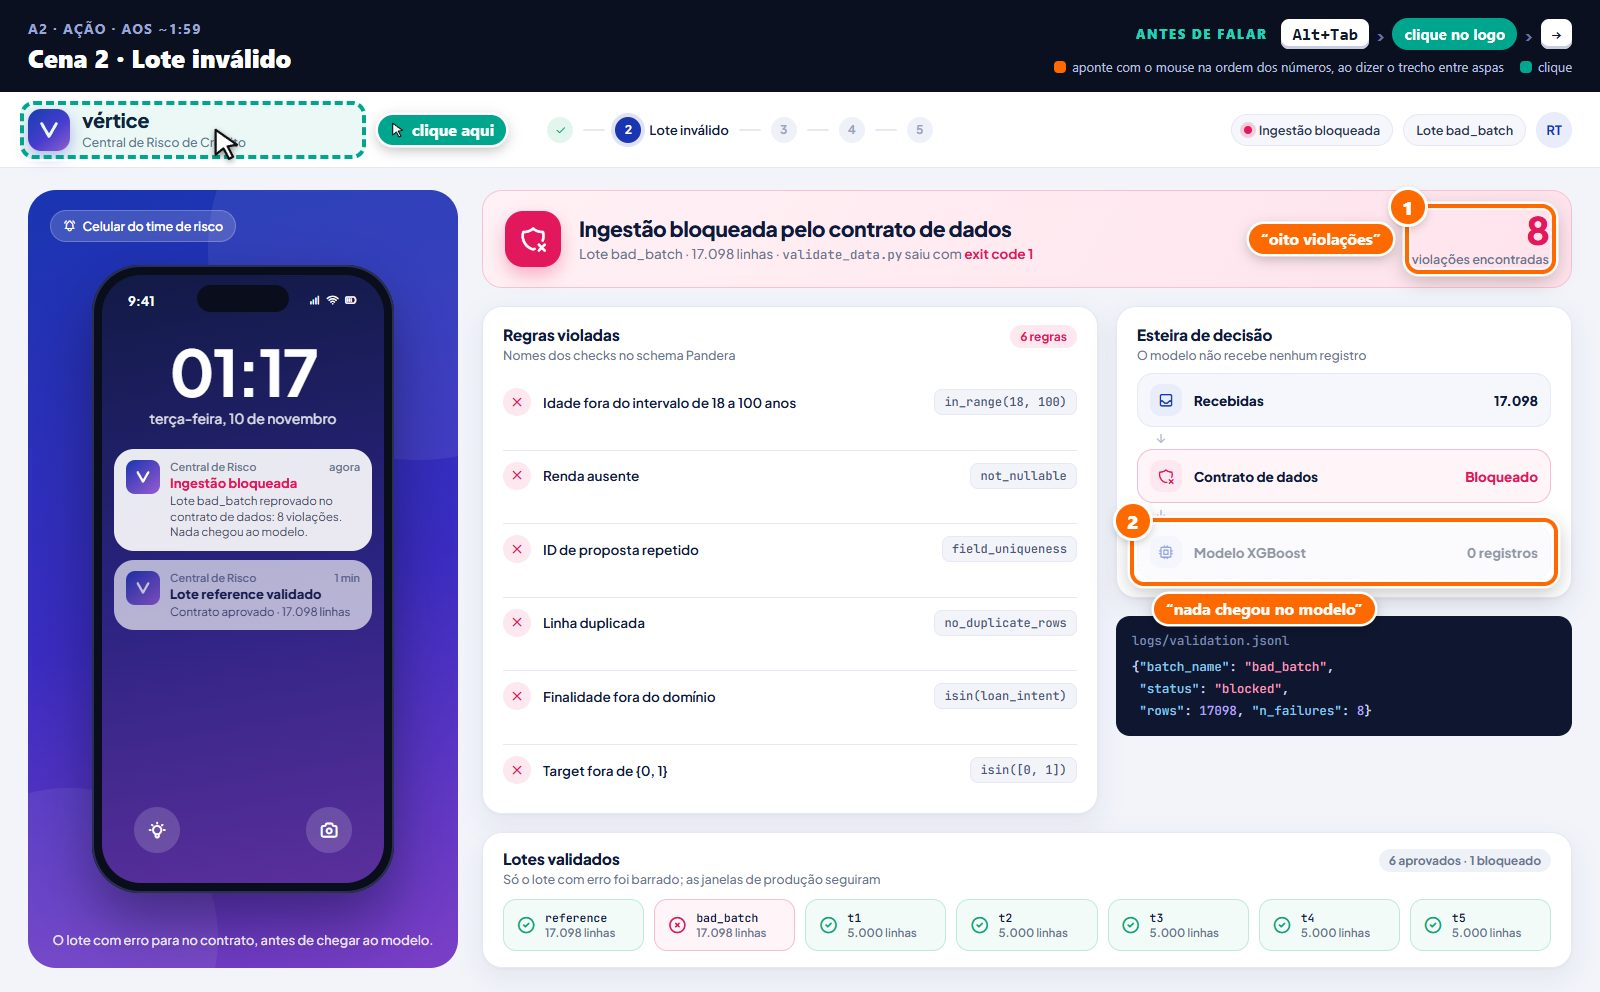
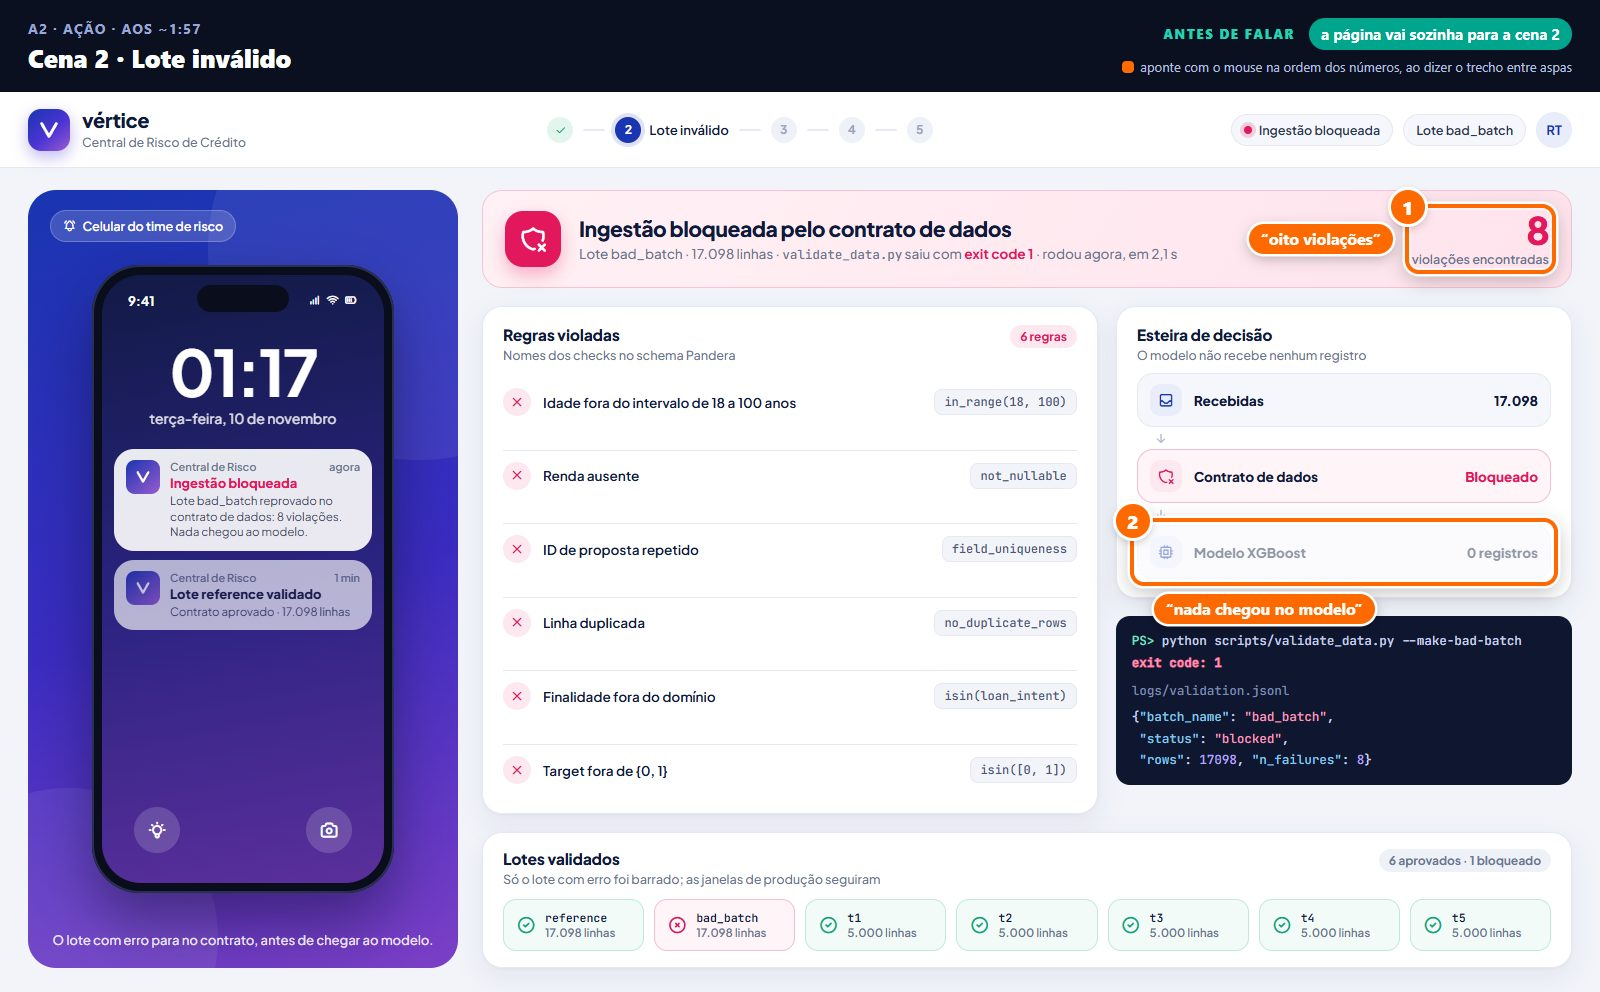
docs(governance): atualiza o a2 do roteiro para rodar o contrato na página

diff --git a/docs/roteiro-video-star.md b/docs/roteiro-video-star.md
@@ -9,7 +9,7 @@ cada escolha, está na seção 5 de [plano-etapa-4.md](plano-etapa-4.md).
 - **Limite do enunciado:** 5 minutos. **Regra do grupo:** menos de **4:59**.
 - **Meta:** ~4:45 no total. A fala tem ~720 palavras: no ritmo dos vídeos anteriores do
   grupo (~165 palavras por minuto) são ~4:22, e o resto cobre as trocas de tela, os dois
-  cliques no celular e a espera do terminal. Os tempos de cada bloco abaixo já seguem esse
+  cliques no celular e a espera do contrato. Os tempos de cada bloco abaixo já seguem esse
   ritmo. Se o ensaio cronometrado passar de 4:50, aplique os cortes do
   [plano B](#plano-b).
 - **Ordem STAR dita em voz alta:** situação, tarefa, ação e resultado, como no vídeo da Fase 2.
@@ -21,8 +21,8 @@ cada escolha, está na seção 5 de [plano-etapa-4.md](plano-etapa-4.md).
 | Tela | O que é | Onde |
 |---|---|---|
 | **Deck** | `Tech_Challenge_4_STAR.pptx`, 11 slides; as notas trazem o tempo de cada bloco | `apresentacao/` (local, fora do Git) |
-| **Página** | página de demonstração "vértice", 5 cenas (celular à esquerda, Central de Risco à direita) | `apresentacao/demo/index.html` (local, fora do Git) |
-| **Terminal** | demonstração ao vivo do contrato bloqueando o lote ruim | raiz do repositório |
+| **Página** | página de demonstração "vértice", 5 cenas (celular à esquerda, Central de Risco à direita); o botão "Testar lote com erro" roda o contrato de verdade dentro da página | `apresentacao/demo/index.html` (local, fora do Git) |
+| **Terminal** | só no plano B do A2, se o botão não funcionar | raiz do repositório |
 | **Evidently** | relatório real de drift da janela t5, aberto em duas abas (tabela e PSI por coluna) | `reports/drift/drift_t5.html` |
 | **README** | seção "Etapa 4: Governança e LGPD" no GitHub | navegador |
 
@@ -61,10 +61,17 @@ predições do `baseline_v1` real. O celular das cenas 1 e 4 também fica ao viv
   (empréstimo acima de 25% da renda). Uns 3 s depois da aprovação chega o aviso "6 meses
   depois: parcelas em atraso". Na simulação, 3 em cada 10 clientes assim deixam de pagar.
 - Finalidade "MEDICAL" nunca aparece no celular, porque a D10 só a mostra em agregados.
+- **Testar lote com erro** (cena 1, no canto da esteira de decisão) roda o mesmo comando do
+  contrato (`scripts/validate_data.py --make-bad-batch`) pelo `serve.py` e mostra, num
+  terminal dentro da página, a saída real, o exit code e o tempo. Uns 2 s depois a página
+  vai sozinha para a cena 2, que diz "rodou agora, em X s". A tecla **L** faz o mesmo. O
+  comando grava em `logs/validation.jsonl` e `reports/validation/`, e o `serve.py` devolve
+  esses dois arquivos ao conteúdo versionado logo depois.
 
 Abrindo o `index.html` direto no navegador, a página funciona do mesmo jeito, mas a tabela
-repete predições do log ("replay dos logs") e o celular usa um cliente fixo. O `serve.py`
-não grava nada em `logs/`. Já o `run_pipeline.py` regrava `logs/` e `reports/`:
+repete predições do log ("replay dos logs"), o celular usa um cliente fixo e o terminal do
+contrato repete a saída do log ("replay do log"). O `serve.py` não deixa nada novo em
+`logs/`. Já o `run_pipeline.py` regrava `logs/` e `reports/`:
 se precisar rodá-lo, faça isso depois de commitar a Etapa 4 e descarte as mudanças geradas
 com `git restore logs/ reports/`.
 
@@ -86,9 +93,9 @@ abas somem, mas os atalhos continuam funcionando. Abra as abas nesta ordem:
   retângulo verde tracejado é onde clicar. Os retângulos laranja numerados são onde apontar,
   na ordem dos números; o balão de cada um traz o trecho da fala em que você aponta.
 - **Mouse:** mova devagar, pare em cima do item enquanto fala e, quando não estiver
-  apontando, deixe o cursor parado num canto vazio. Na página, só os dois botões do celular
-  respondem ao clique ("Atualizar dados" e "Pedir análise"); clicar nos cartões não faz
-  nada. O clique no logo serve só para garantir que a página está com o foco depois do
+  apontando, deixe o cursor parado num canto vazio. Na página, só três botões respondem ao
+  clique: os dois do celular ("Atualizar dados" e "Pedir análise") e o "Testar lote com
+  erro" da cena 1; clicar nos cartões não faz nada. O clique no logo serve só para garantir que a página está com o foco depois do
   `Alt+Tab`.
 - Os prints foram gerados da página e do relatório reais (pasta
   [roteiro-video/](roteiro-video/)). Para gerar de novo depois de mudar a página, com o
@@ -156,41 +163,41 @@ ordem: o cenário, a mudança, o risco.
 | "nenhum erro" | aponte **4**, "Predições com erro" |
 | "só o ID com hash" | aponte **5**, a coluna "Registro" da tabela |
 
-### A2 · Ação: contrato de dados · 1:38–2:05 · terminal → página, cena 2
+### A2 · Ação: contrato de dados · 1:38–2:05 · página, cena 1 → cena 2
 
-**Tela:** terminal, com o comando já digitado. Aperte Enter na hora: a saída leva uns
-5 segundos. Aos ~1:59, volte para a página na **cena 2 "Lote inválido"**.
-
-No PowerShell (terminal padrão do Windows e do VS Code):
-
-```powershell
-uv run python scripts/validate_data.py --make-bad-batch; echo "exit code: $LASTEXITCODE"
-```
-
-No Git Bash, o equivalente é `echo "exit code: $?"`. No PowerShell, o `$?` mostra
-`True`/`False` em vez do código de saída, por isso lá se usa `$LASTEXITCODE`.
+**Tela:** a página continua na **cena 1**, onde o A1 parou. Não precisa de terminal: o
+botão **Testar lote com erro** roda o comando do contrato e mostra a saída num terminal
+dentro da página. Uns 2 s depois de aparecer o exit code, a página vai sozinha para a
+**cena 2 "Lote inválido"**.
 
 > Começando pelo contrato, que é em Pandera, com regras rígidas: idade entre
 > 18 e 100, renda obrigatória e dentro do limite, sem duplicata, categoria válida e target zero
-> ou um. Aqui eu passo um lote com erro de propósito... e o contrato bloqueia, exit code 1.
-> [cena 2] Na página, oito violações, e nada chegou no modelo.
+> ou um. Aqui eu passo um lote com erro de propósito... [clique em Testar lote com erro] e o
+> contrato bloqueia, exit code 1. [a página vai sozinha para a cena 2] E aqui, oito violações,
+> e nada chegou no modelo.
 
-**No terminal:** quando a saída aparecer, aponte as duas últimas linhas:
+**Na página, aos ~1:38, ainda na cena 1 (o clique é aos ~1:50):**
 
-```text
-... ERROR __main__: Lote 'bad_batch' bloqueado: violou o contrato de dados   ← "o contrato bloqueia"
-exit code: 1                                                                  ← "exit code 1"
-```
-
-**Na página, aos ~1:59:**
-
-![Cena 2: aperte a seta e aponte as oito violações e o modelo com zero registros](roteiro-video/a2-cena-2.jpg)
+![Cena 1: clique em Testar lote com erro e aponte o bloqueio e o exit code](roteiro-video/a2-cena-1-contrato.jpg)
 
 | Momento | O que fazer |
 |---|---|
-| Antes de falar | `Alt+Tab` para o Chrome, clique no logo e aperte `→`. O lote bate no contrato e a esteira fica vermelha |
+| Antes de falar | nada: a página já está na cena 1 desde o A1. Comece a fala das regras com o cursor parado |
+| "passo um lote com erro" | clique em **Testar lote com erro** (retângulo verde). O terminal abre embaixo da esteira, digita o comando e roda; a saída leva 2 a 3 s |
+| "o contrato bloqueia, exit code 1" | aponte **1**, a linha vermelha "Lote 'bad_batch' bloqueado" e o "exit code: 1". O contrato da esteira fica vermelho |
+
+**Na página, aos ~1:57, já na cena 2:**
+
+![Cena 2: a página troca sozinha; aponte as oito violações e o modelo com zero registros](roteiro-video/a2-cena-2.jpg)
+
+| Momento | O que fazer |
+|---|---|
+| Antes de falar | nada: a página troca sozinha. O lote bate no contrato, a esteira fica vermelha e o título diz "exit code 1 · rodou agora" |
 | "oito violações" | aponte **1**, o "8 violações encontradas" |
 | "nada chegou no modelo" | aponte **2**, "Modelo XGBoost · 0 registros" |
+
+Se o selo do terminal disser "replay do log" em vez de "ao vivo · serve.py", o `serve.py`
+não está no ar e a saída é a do log versionado (ver o [plano B](#plano-b)).
 
 ### A3 · Ação: simulação do drift · 2:05–2:35 · slide 6 → página, cena 3
 
@@ -360,10 +367,9 @@ Antes de gravar:
 - [ ] Evidently, aba 4: role até "Drift in column 'loan_int_rate'", com o bloco de
       `loan_percent_income` aparecendo embaixo.
 - [ ] README no GitHub (aba 2) aberto na seção "Etapa 4: Governança e LGPD".
-- [ ] Terminal na raiz do repositório, com fonte grande e o comando do A2 já digitado.
-      Rode o comando uma vez antes: se aparecer o aviso `PSEUDONYMIZATION_SALT não
-      definido`, defina o salt nesse terminal (`$env:PSEUDONYMIZATION_SALT = "<salt do .env>"`
-      no PowerShell) para o aviso não aparecer no vídeo.
+- [ ] Na aba 1, teste o **Testar lote com erro** uma vez: o selo do terminal deve dizer
+      "ao vivo · serve.py" e a página deve ir sozinha para a cena 2. Depois volte com `←`
+      para a cena 1 e aperte `R`.
 - [ ] Notificações do sistema desligadas e abas pessoais fechadas.
 - [ ] Microfone testado com 10 s de gravação.
 
@@ -371,11 +377,10 @@ Durante e depois:
 
 - [ ] Gravar por blocos (S, T, A, R) e juntar na edição. Errou, repete só o bloco.
 - [ ] Conferir a duração final no editor: **menos de 4:59**.
-- [ ] O comando do A2 acrescenta uma linha em `logs/validation.jsonl` e regrava o
-      `reports/validation/bad_batch_failures.csv`. Depois de gravar, descarte essas mudanças
-      com `git restore logs/validation.jsonl reports/validation/`. **Só faça isso depois de
-      commitar a Etapa 4:** antes do commit, o `git restore` volta o relatório antigo, com
-      um ID em claro.
+- [ ] O botão do A2 não deixa nada novo em `logs/` nem em `reports/`. Só se usar o terminal
+      do plano B: ele acrescenta uma linha em `logs/validation.jsonl` e regrava o
+      `reports/validation/bad_batch_failures.csv`; depois de gravar, descarte com
+      `git restore logs/validation.jsonl reports/validation/`.
 - [ ] Subir no YouTube como **Não listado**, com integrantes, RMs e link do repositório na
       descrição.
 - [ ] Colocar o link na seção "Vídeo STAR" do README (T4.7).
@@ -387,7 +392,13 @@ Durante e depois:
 - **O celular não responde ou mostra sempre o mesmo cliente:** o `serve.py` caiu. Suba de
   novo e recarregue a página; sem ele, o celular usa um cliente fixo e a cena 4 ainda mostra
   o aviso de atraso.
-- **O terminal demora:** grave o A2 à parte e corte na edição.
+- **O botão do contrato mostra "replay do log":** o `serve.py` caiu. Suba de novo e
+  recarregue a página. Se não der tempo, a saída do replay é a mesma do log versionado e a
+  fala não muda. Último recurso: rode no PowerShell, na raiz do repositório,
+  `uv run python scripts/validate_data.py --make-bad-batch; echo "exit code: $LASTEXITCODE"`,
+  volte para a página com `Alt+Tab`, clique no logo e aperte `→`; depois de gravar, rode
+  `git restore logs/validation.jsonl reports/validation/`.
+- **O contrato demora:** grave o A2 à parte e corte na edição.
 - **O tempo estourou no ensaio:** corte, nesta ordem, o Grafana, o clique no celular do A1
   (a frase "Um cliente acabou de pedir crédito…"; a cena 4 já mostra o celular), a rolagem do
   README no A4 e a quarta lição do R3.

diff --git a/docs/plano-etapa-4.md b/docs/plano-etapa-4.md
@@ -345,11 +345,12 @@ Conclusões:
 
 - **Meta de 4:30 de fala**, cerca de 650 palavras a ~150 palavras/min. Isso deixa ~30 s de
   folga para o limite de 4:59.
-- **Nada de tour de pastas.** Abrir só as evidências: terminal, HTML do Evidently, painel,
-  README de governança.
+- **Nada de tour de pastas.** Abrir só as evidências: HTML do Evidently, painel (com o
+  contrato rodando dentro dele) e README de governança.
 - **Comandos já executados antes de gravar.** O `run_pipeline.py` é lento demais para ao
-  vivo. No terminal, mostrar só o bloqueio do contrato, que é rápido.
-- Abas abertas na ordem do roteiro, zoom no navegador e no terminal.
+  vivo. Ao vivo, só o bloqueio do contrato, que é rápido e roda pelo botão "Testar lote
+  com erro" da página (D18), sem trocar de janela.
+- Abas abertas na ordem do roteiro e zoom no navegador.
 - Nomes e RMs **no slide de abertura**, não lidos em voz alta.
 - Dizer em voz alta "Situação", "Tarefa", "Ação", "Resultado", como fez o vídeo da Fase 2.
 - **Situation é o cenário proposto pelo desafio** (a fintech, a economia mudando, a suspeita
@@ -361,7 +362,8 @@ Conclusões:
   rótulos (cena 1: "baseline_v1 · AUC 0,927"; cena 4: "crise simulada" e "modelo base
   0,927").
 - **A página de demonstração (W7) mostra; a evidência prova.** A página conduz as partes A
-  e R, mas o vídeo também abre o terminal com o `exit code 1` e o HTML real do Evidently,
+  e R, mas o vídeo também mostra a saída real do contrato com o `exit code 1` e o HTML real
+  do Evidently,
   que é o que o enunciado pede no Result.
 - Gravar por blocos e editar. **Conferir a duração final no editor antes de subir.**
 - YouTube como "Não listado", com descrição contendo integrantes, RMs e link do GitHub.
@@ -374,7 +376,7 @@ Conclusões:
 | **S** | 0:15–0:45 | slide 3 | o cenário do desafio: fintech com Credit Scoring em produção; inflação e novos perfis de clientes; a diretoria suspeita de decisões erradas; risco de degradação silenciosa |
 | **T** | 0:45–1:05 | slide 4 | interceptar dados ruins · detectar drift (data + concept) · garantir compliance (LGPD, vieses) |
 | **A1** arquitetura | 1:05–1:30 | slide 5 → página, cena 1 | a camada de sustentação ponta a ponta; o modelo respondendo ao vivo (citar de passagem a AUC de 0,927 do modelo base); log só com hash |
-| **A2** contrato | 1:30–1:50 | terminal → página, cena 2 | Pandera com regras rígidas; `validate_data.py --make-bad-batch` → **exit code 1** e regras violadas |
+| **A2** contrato | 1:30–1:50 | página, cena 1 (botão do contrato) → cena 2 | Pandera com regras rígidas; `validate_data.py --make-bad-batch` → **exit code 1** e regras violadas |
 | **A3** simulação | 1:50–2:15 | slide 6 → página, cena 3 | 4 features alteradas com justificativa econômica; concept drift em t4 e t5; seed fixa; PSI e KS do Evidently |
 | **A4** governança | 2:15–2:45 | slide 7 + README (governança) | pseudonimização, base legal (art. 7º, X e art. 20), retenção, fairness, cadeia causal |
 | **R1** drift | 2:45–3:25 | página, cena 4 → `drift_t5.html` | operação verde e decisão pior; features degradadas apontadas no Evidently; AUC 0,927 → 0,806 na crise que simulamos |
